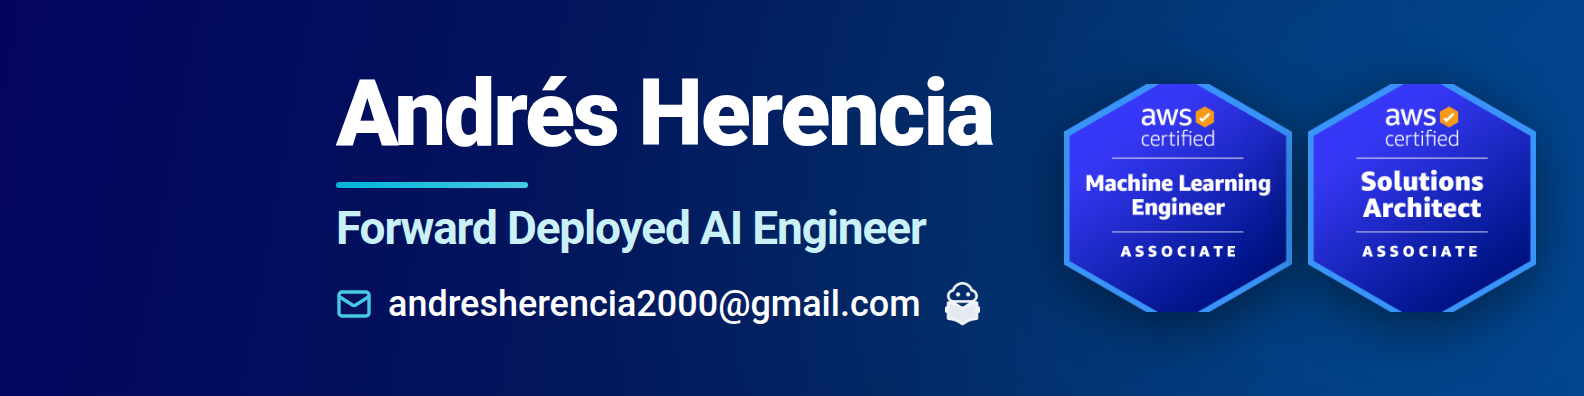
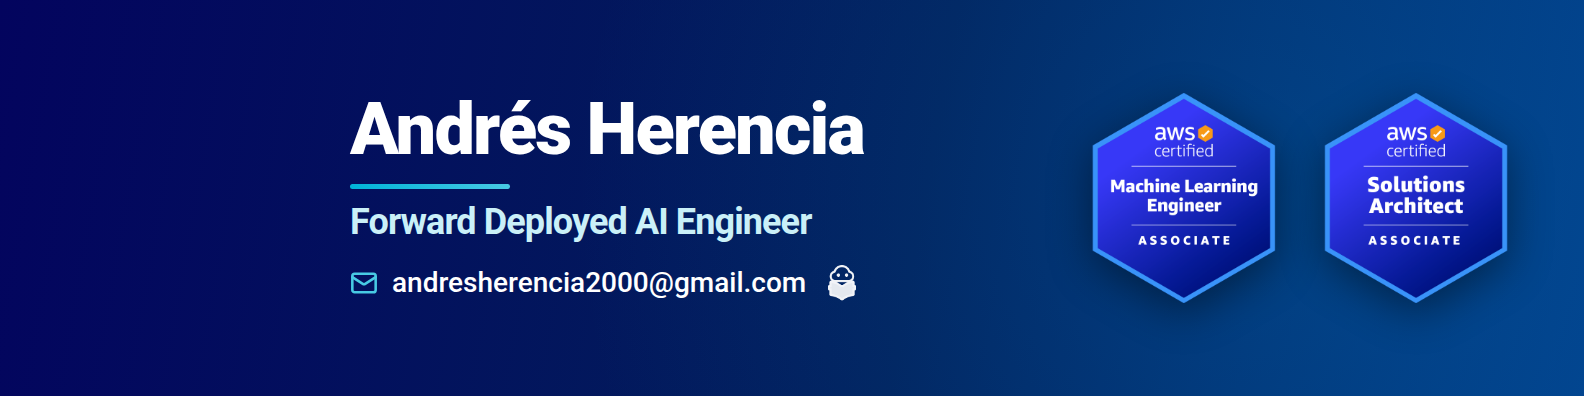
fix: restore original uncropped AWS badge geometry and balance typography scale

diff --git a/linkedin-banner/src/components/LinkedInBanner.tsx b/linkedin-banner/src/components/LinkedInBanner.tsx
@@ -38,54 +38,54 @@ export const LinkedInBanner: React.FC<LinkedInBannerProps> = ({
         </div>
       )}
 
-      {/* Main Content Container — Balanced 2-Column Layout with Bold Typography */}
-      <div className="relative z-10 h-full w-full pl-[336px] pr-[48px] flex items-center justify-between gap-8">
+      {/* Main Content Container — Balanced 2-Column Layout */}
+      <div className="relative z-10 h-full w-full pl-[350px] pr-[60px] flex items-center justify-between gap-8">
         {/* Left/Center Column: Name, Motto, and Email */}
-        <div className="flex flex-col justify-center space-y-5">
+        <div className="flex flex-col justify-center space-y-4">
           {/* Name */}
-          <h1 className="text-[92px] font-black tracking-tight text-white leading-[0.95]">
+          <h1 className="text-[72px] font-black tracking-tight text-white leading-[0.98]">
             Andrés Herencia
           </h1>
 
           {/* CV-style \xrfill tertiary horizontal bar + Motto */}
-          <div className="space-y-4 pt-1">
+          <div className="space-y-3.5 pt-0.5">
             <div
-              className="h-[6px] w-48 rounded-full"
+              className="h-[5px] w-40 rounded-full"
               style={{
                 background:
                   "linear-gradient(90deg, var(--turquoise-surf), var(--sky-aqua))",
               }}
             />
-            <p className="text-[46px] font-bold text-light-cyan tracking-tight leading-[1.08]">
+            <p className="text-[36px] font-bold text-light-cyan tracking-tight leading-[1.1]">
               {motto}
             </p>
           </div>
 
           {/* Email + Personal Emblem */}
-          <div className="flex items-center gap-4 pt-2">
-            <Mail className="w-9 h-9 text-sky-aqua shrink-0 stroke-[2.25]" />
-            <span className="text-[36px] font-medium text-white tracking-normal leading-none">
+          <div className="flex items-center gap-3.5 pt-1.5">
+            <Mail className="w-7 h-7 text-sky-aqua shrink-0 stroke-[2.2]" />
+            <span className="text-[28px] font-medium text-white tracking-normal leading-none">
               andresherencia2000@gmail.com
             </span>
             <img
               src="/assets/logo-andres.png"
               alt="Andrés Herencia Emblem"
-              className="w-11 h-11 object-contain brightness-0 invert opacity-95 ml-1"
+              className="w-9 h-9 object-contain brightness-0 invert opacity-95 ml-1"
             />
           </div>
         </div>
 
-        {/* Right Column: Large, Clear Official AWS Certification Badges */}
+        {/* Right Column: Uncropped Official AWS Hexagonal Badges */}
         <div className="flex items-center gap-4 shrink-0">
           <img
             src="/assets/aws-mla.png"
             alt="AWS Certified Machine Learning Engineer – Associate"
-            className="w-[228px] h-[228px] object-contain drop-shadow-[0_12px_28px_rgba(0,0,0,0.5)]"
+            className="w-[216px] h-[216px] object-contain drop-shadow-[0_10px_22px_rgba(0,0,0,0.45)]"
           />
           <img
             src="/assets/aws-saa.png"
             alt="AWS Certified Solutions Architect – Associate"
-            className="w-[228px] h-[228px] object-contain drop-shadow-[0_12px_28px_rgba(0,0,0,0.5)]"
+            className="w-[216px] h-[216px] object-contain drop-shadow-[0_10px_22px_rgba(0,0,0,0.45)]"
           />
         </div>
       </div>
